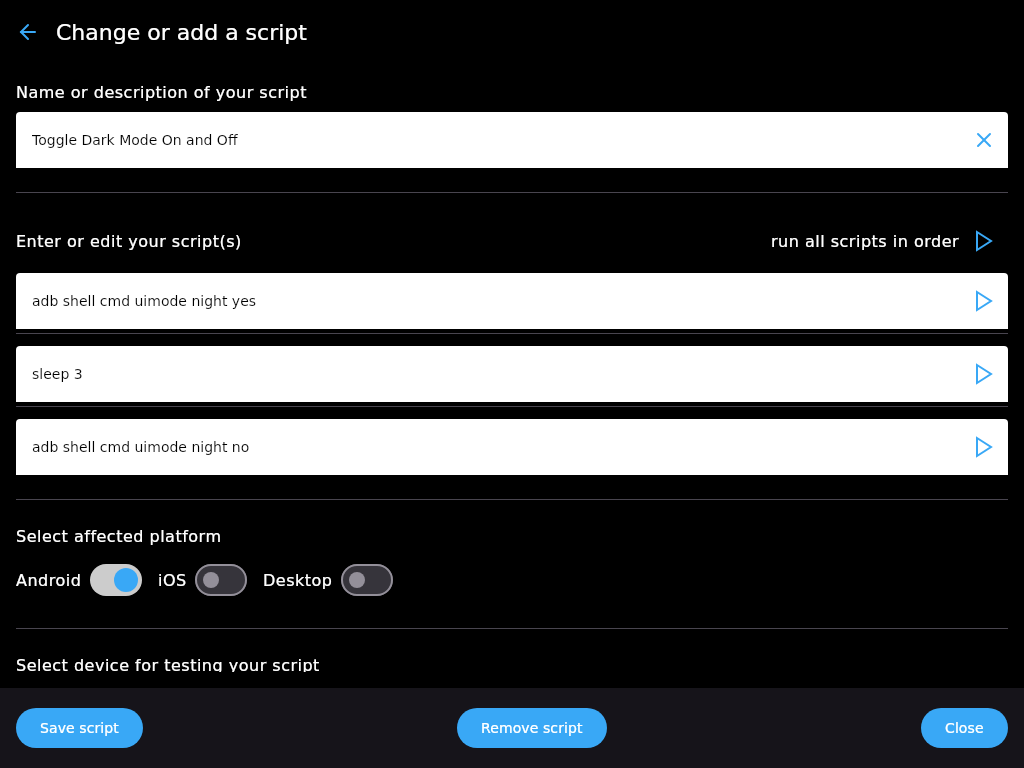
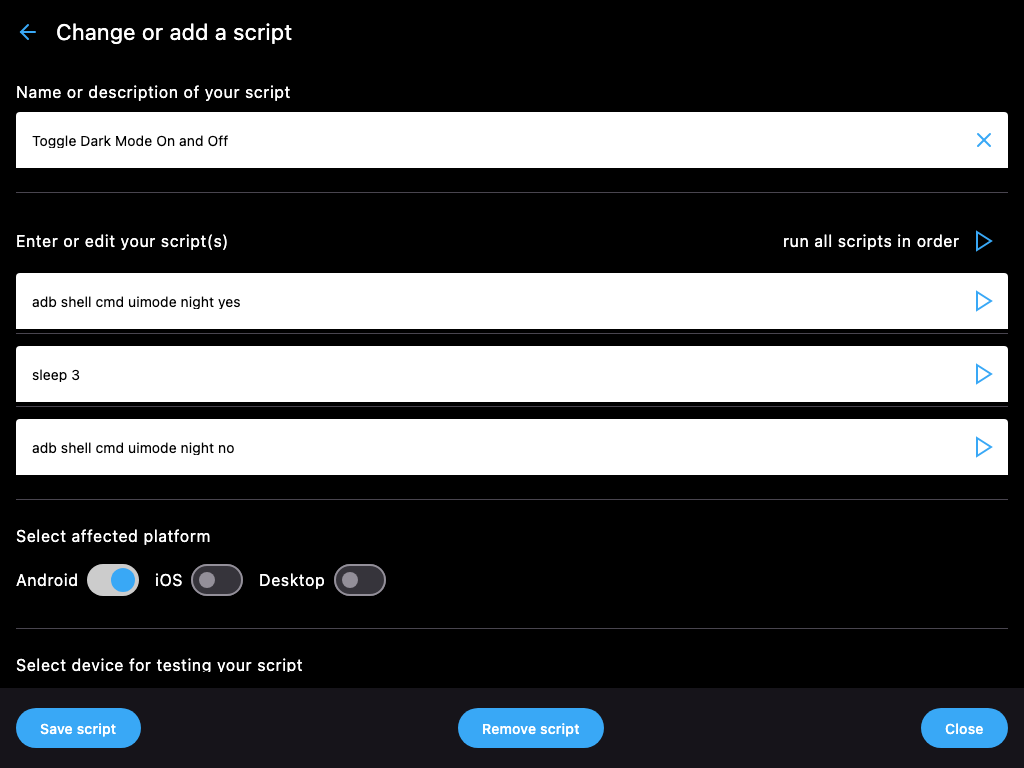
Fix/Improve

diff --git a/composeApp/src/commonTest/kotlin/de/joz/appcommander/ui/edit/EditScriptScreenTest.kt b/composeApp/src/commonTest/kotlin/de/joz/appcommander/ui/edit/EditScriptScreenTest.kt
@@ -4,6 +4,7 @@ import androidx.compose.ui.test.ComposeUiTest
 import androidx.compose.ui.test.ExperimentalTestApi
 import androidx.compose.ui.test.hasContentDescription
 import androidx.compose.ui.test.hasTestTag
+import androidx.compose.ui.test.hasText
 import androidx.compose.ui.test.onNodeWithContentDescription
 import androidx.compose.ui.test.onNodeWithTag
 import androidx.compose.ui.test.onNodeWithText
@@ -11,6 +12,7 @@ import androidx.compose.ui.test.performClick
 import androidx.compose.ui.test.performTextClearance
 import androidx.compose.ui.test.performTextInput
 import androidx.compose.ui.test.runComposeUiTest
+import androidx.compose.ui.test.waitUntilAtLeastOneExists
 import androidx.navigation.NavController
 import de.joz.appcommander.domain.script.ExecuteScriptUseCase
 import de.joz.appcommander.domain.script.GetScriptIdUseCase
@@ -76,7 +78,8 @@ class EditScriptScreenTest {
 			setupData(
 				script = testScript,
 			)
-			setTestContent(scriptKey = setupData().hashCode())
+			setTestContent(scriptKey = testScript.hashCode())
+			waitUntilAtLeastOneExists(hasText(text = testScript.label))
 
 			screenshotVerifier.verifyScreenshot(
 				source = this,
